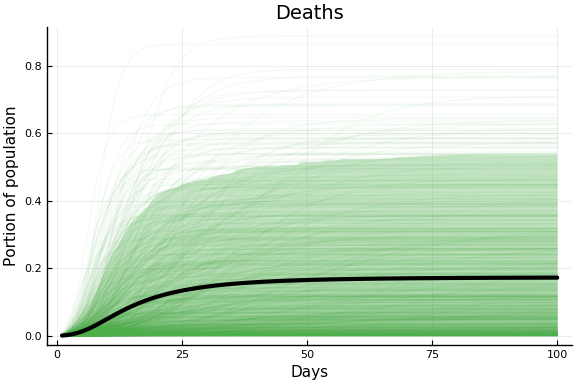
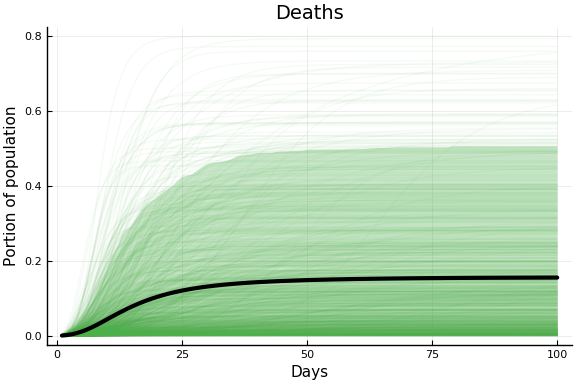
Deployed 2faefc0 with MkDocs version: 1.1

diff --git a/covid/index.html b/covid/index.html
@@ -365,34 +365,34 @@ pr.tbl
 Summary Statistics
   parameters    mean      std  naive_se    mcse       ess   r_hat
   ──────────  ──────  ───────  ────────  ──────  ────────  ──────
-           a  0.5654   0.2686    0.0170  0.0188  255.2811  0.9997
-         pE0  0.0854   0.0654    0.0041  0.0058  310.1646  0.9974
-        p[1]  0.2459   0.1867    0.0118  0.0113  240.1762  0.9963
-        p[2]  0.2600   0.1719    0.0109  0.0023  362.0081  0.9960
-        sigC  3.4108  10.0378    0.6348  0.9028  174.6732  1.0012
-        sigD  3.1483   3.6424    0.2304  0.4784  109.6841  0.9964
-       sigRc  2.8166   3.5338    0.2235  0.3084  211.0814  0.9962
-        β[1]  0.9970   0.7070    0.0447  0.0903  442.4055  1.0014
-        β[2]  1.0751   0.7259    0.0459  0.0050  420.5231  0.9960
-        γ[1]  0.4729   0.3576    0.0226  0.0133  493.1301  0.9960
-        γ[2]  0.2401   0.1790    0.0113  0.0155  307.0043  0.9960
-           τ  1.7502   1.3210    0.0835  0.0229  420.2080  0.9961
+           a  0.5443   0.2632    0.0166  0.0087  492.2241  0.9960
+         pE0  0.0743   0.0550    0.0035  0.0085  273.8861  1.0045
+        p[1]  0.2538   0.1728    0.0109  0.0121  398.3151  1.0105
+        p[2]  0.2698   0.2143    0.0136  0.0107  205.1242  0.9994
+        sigC  3.4814   6.0769    0.3843  0.8469  100.9481  1.0057
+        sigD  4.4901  14.5061    0.9174  1.8310  121.6232  1.0082
+       sigRc  2.8270   4.1255    0.2609  0.6940  133.8914  1.0000
+        β[1]  0.9636   0.6898    0.0436  0.0253  242.3016  0.9977
+        β[2]  1.0103   0.6356    0.0402  0.0196  333.4204  0.9960
+        γ[1]  0.4346   0.2880    0.0182  0.0231  267.6991  0.9960
+        γ[2]  0.2569   0.1744    0.0110  0.0019  387.2540  0.9971
+           τ  1.7651   1.2738    0.0806  0.1043  593.6803  0.9960
 
 Quantiles
   parameters    2.5%   25.0%   50.0%   75.0%    97.5%
   ──────────  ──────  ──────  ──────  ──────  ───────
-           a  0.1265  0.3293  0.5625  0.8090   0.9721
-         pE0  0.0054  0.0297  0.0734  0.1242   0.2384
-        p[1]  0.0087  0.1004  0.2080  0.3539   0.6629
-        p[2]  0.0135  0.1341  0.2363  0.3662   0.6451
-        sigC  0.6001  1.2797  1.9516  3.0770  14.1916
-        sigD  0.5913  1.1629  1.9222  3.3838  14.8259
-       sigRc  0.4710  1.0214  1.8535  3.3675  11.1009
-        β[1]  0.0337  0.4814  0.8895  1.3505   2.7546
-        β[2]  0.0904  0.4408  0.9420  1.5911   2.5477
-        γ[1]  0.0159  0.1908  0.3636  0.7015   1.2829
-        γ[2]  0.0053  0.0987  0.1977  0.3463   0.6898
-           τ  0.1238  0.7963  1.3958  2.5012   5.0382
+           a  0.0956  0.3347  0.5299  0.7870   0.9796
+         pE0  0.0027  0.0300  0.0627  0.1067   0.1974
+        p[1]  0.0086  0.1152  0.2283  0.3630   0.6388
+        p[2]  0.0153  0.1058  0.2222  0.3844   0.7964
+        sigC  0.5941  1.1257  1.8590  3.5083  17.5933
+        sigD  0.5423  1.0898  1.9320  3.4050  16.3294
+       sigRc  0.5154  1.1476  1.7401  2.8504  13.4491
+        β[1]  0.0330  0.3411  0.8959  1.4152   2.4407
+        β[2]  0.1297  0.4896  0.9143  1.3449   2.5628
+        γ[1]  0.0257  0.2045  0.4083  0.5860   1.0879
+        γ[2]  0.0183  0.1182  0.2194  0.3667   0.6371
+           τ  0.0692  0.7227  1.6079  2.5516   4.7701
 </code></pre>
 <p>The following plots show the implications of this prior for the observed
 data. The faint lines on each figure shows 1000 trajectories sampled
@@ -422,11 +422,11 @@ below we use 4 chains with 1000 warmup iterations, and 1000 iterations
 for the results.</p>
 <h1 id="results">Results<a class="headerlink" href="#results" title="Permanent link">&para;</a></h1>
 <ul>
-<li><a href="canada">Canada</a></li>
-<li><a href="italy">Italy</a></li>
-<li><a href="korea">South Korea</a></li>
-<li><a href="china">China</a></li>
-<li><a href="US">United States</a></li>
+<li><a href="../canada/">Canada</a></li>
+<li><a href="../italy/">Italy</a></li>
+<li><a href="../korea/">South Korea</a></li>
+<li><a href="../china/">China</a></li>
+<li><a href="../us/">United States</a></li>
 </ul>
 <h1 id="extensions">Extensions<a class="headerlink" href="#extensions" title="Permanent link">&para;</a></h1>
 <ol>

diff --git a/index.html b/index.html
@@ -236,5 +236,5 @@
 
 <!--
 MkDocs version : 1.1
-Build Date UTC : 2020-03-30 01:28:53
+Build Date UTC : 2020-03-30 01:47:28
 -->
